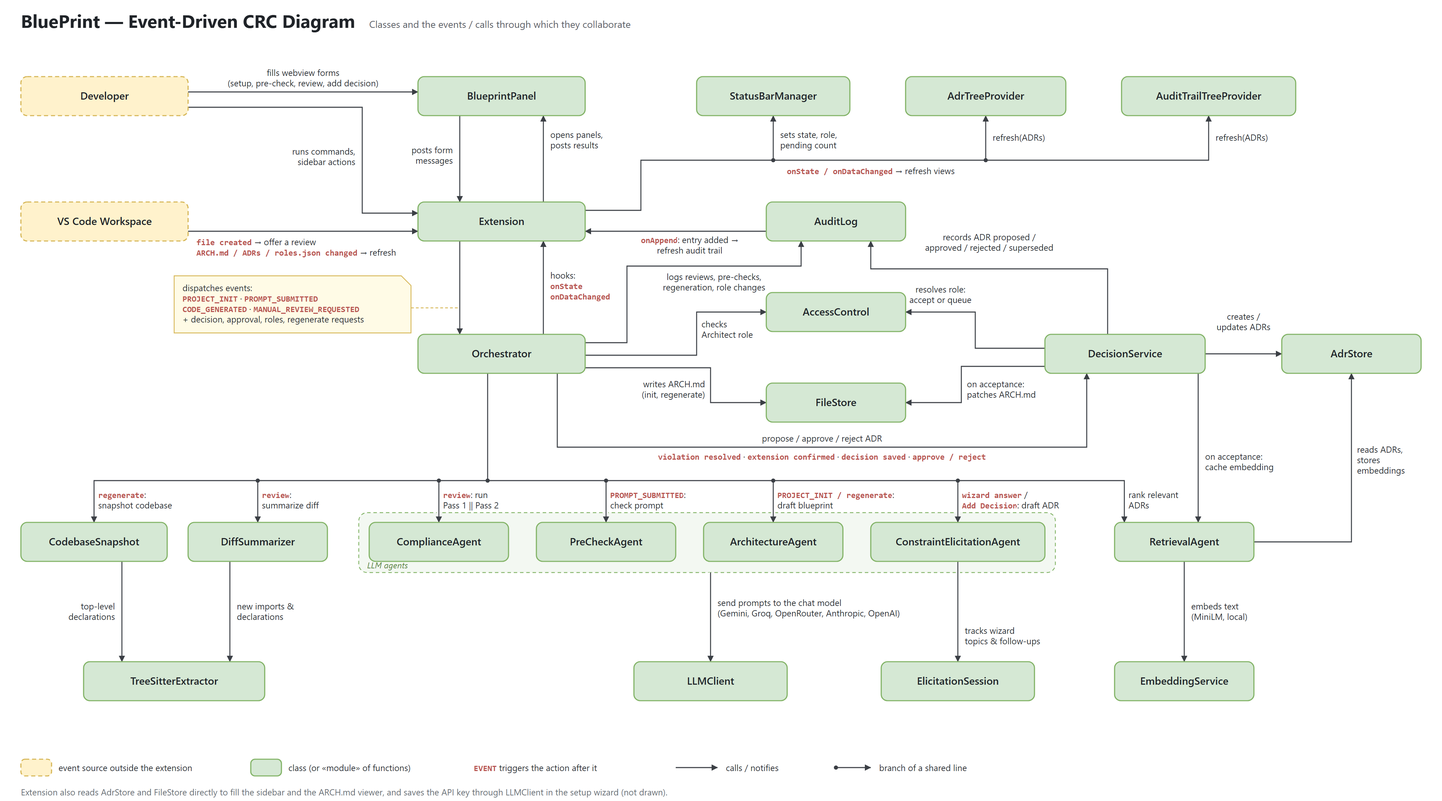
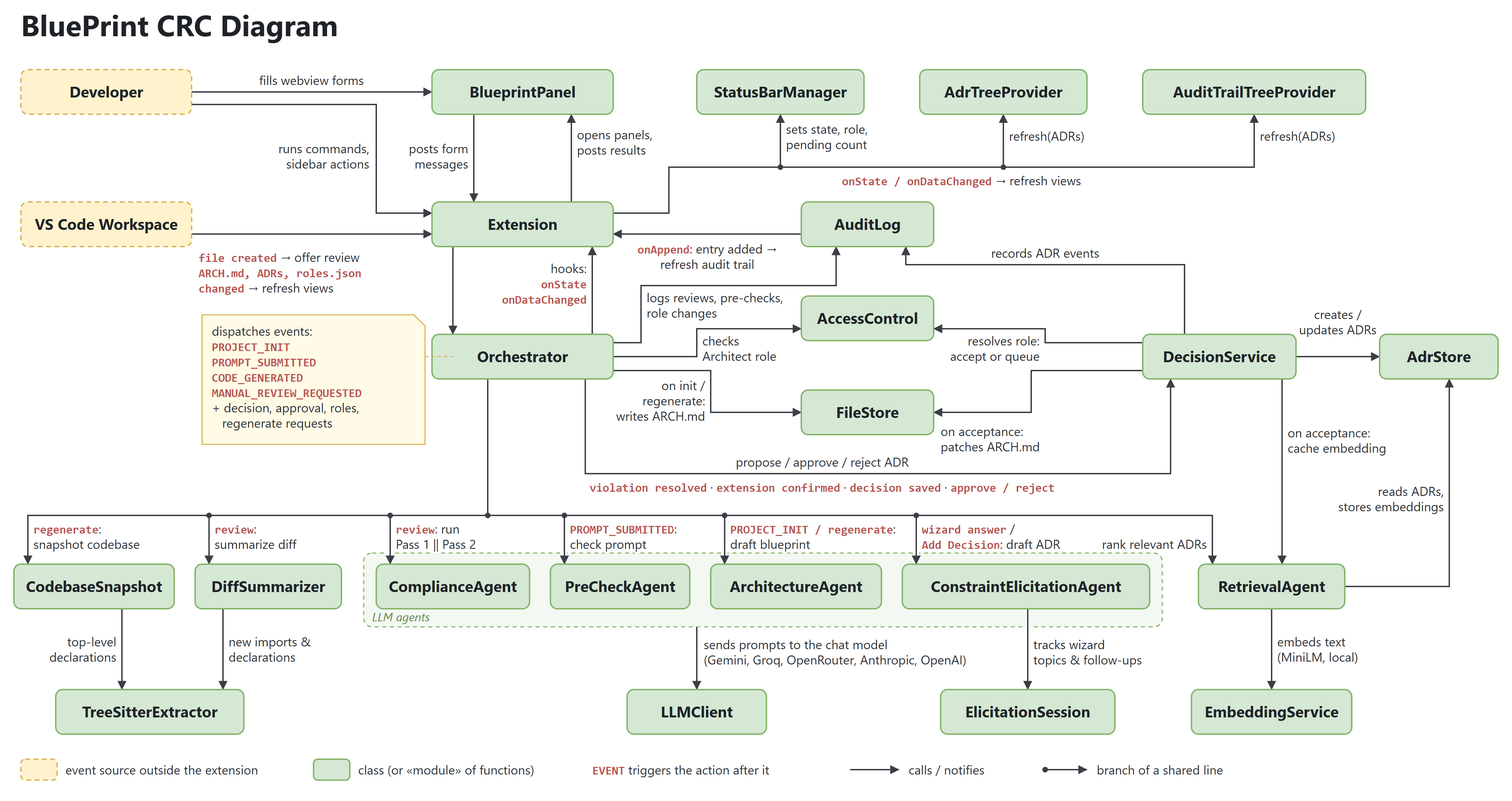
CRC diagram: larger fonts for slides, simpler title, drop footnote

diff --git a/docs/diagrams/event-crc.html b/docs/diagrams/event-crc.html
@@ -2,75 +2,103 @@
 <html lang="en">
 <head>
 <meta charset="UTF-8">
-<title>BluePrint — Event-Driven CRC Diagram</title>
+<title>BluePrint CRC Diagram</title>
 <style>
   * { margin: 0; padding: 0; box-sizing: border-box; }
-  body { background: #fff; width: 2070px; font-family: "Segoe UI", Arial, sans-serif; }
+  body { background: #fff; width: 2170px; font-family: "Segoe UI", Arial, sans-serif; }
   svg { display: block; }
-  .title { font-size: 26px; font-weight: 700; fill: #1f2328; }
-  .subtitle { font-size: 14px; fill: #5b6168; }
-  .box { fill: #d5e8d4; stroke: #82b366; stroke-width: 1.6; }
-  .box.evt { fill: #fff2cc; stroke: #d6b656; stroke-dasharray: 6 4; }
-  .name { font-size: 15px; font-weight: 600; fill: #1f2328; }
-  .edge { fill: none; stroke: #3b3f45; stroke-width: 1.4; }
-  .halo { fill: none; stroke: #fff; stroke-width: 6; }
+  .title { font-size: 42px; font-weight: 700; fill: #1f2328; }
+  .box { fill: #d5e8d4; stroke: #82b366; stroke-width: 2; }
+  .box.evt { fill: #fff2cc; stroke: #d6b656; stroke-dasharray: 7 5; }
+  .name { font-size: 22px; font-weight: 700; fill: #1f2328; }
+  .edge { fill: none; stroke: #3b3f45; stroke-width: 2; }
+  .halo { fill: none; stroke: #fff; stroke-width: 8; }
   .dot { fill: #3b3f45; }
-  .lbl { font-size: 12.5px; fill: #2d3136; paint-order: stroke; stroke: #fff; stroke-width: 4px; stroke-linejoin: round; }
-  .lbl.muted { fill: #6a7076; }
-  .ev { font-weight: 700; fill: #b85450; font-family: Consolas, "Cascadia Mono", monospace; font-size: 12px; }
-  .group { fill: #f3f8f2; stroke: #82b366; stroke-width: 1.2; stroke-dasharray: 5 4; }
-  .group-lbl { font-size: 12px; font-style: italic; fill: #5d8a47; }
-  .note { fill: #fffbe6; stroke: #d6b656; stroke-width: 1.2; }
+  .lbl { font-size: 18px; fill: #2d3136; paint-order: stroke; stroke: #fff; stroke-width: 5px; stroke-linejoin: round; }
+  .ev { font-weight: 700; fill: #b85450; font-family: Consolas, "Cascadia Mono", monospace; font-size: 17px; }
+  .group { fill: #f3f8f2; stroke: #82b366; stroke-width: 1.6; stroke-dasharray: 6 5; }
+  .group-lbl { font-size: 17px; font-style: italic; fill: #5d8a47; }
+  .note { fill: #fffbe6; stroke: #d6b656; stroke-width: 1.6; }
   .note-txt { stroke: none; }
-  .note-link { fill: none; stroke: #d6b656; stroke-width: 1.2; stroke-dasharray: 4 3; }
+  .note-link { fill: none; stroke: #d6b656; stroke-width: 1.6; stroke-dasharray: 5 4; }
 </style>
 </head>
 <body>
-<svg xmlns="http://www.w3.org/2000/svg" width="2070" height="1150" viewBox="0 0 2070 1150">
+<svg xmlns="http://www.w3.org/2000/svg" width="2170" height="1150" viewBox="0 0 2170 1150">
   <defs>
-    <marker id="arrow" viewBox="0 0 10 10" refX="9.5" refY="5" markerWidth="9" markerHeight="9" orient="auto-start-reverse" markerUnits="userSpaceOnUse">
+    <marker id="arrow" viewBox="0 0 10 10" refX="9.5" refY="5" markerWidth="13" markerHeight="13" orient="auto-start-reverse" markerUnits="userSpaceOnUse">
       <path d="M0,0 L10,5 L0,10 z" fill="#3b3f45"/>
     </marker>
   </defs>
-  <text class="title" x="30" y="40">BluePrint — Event-Driven CRC Diagram</text>
-  <text class="subtitle" x="530" y="40">Classes and the events / calls through which they collaborate</text>
-  <g transform="translate(0,70)">
-<rect class="group" x="515" y="666" width="1000" height="86" rx="12"/><text class="group-lbl" x="527" y="746">LLM agents</text><path class="halo" d="M270,62 L600,62"/><path class="halo" d="M270,84 L520,84 L520,236 L600,236"/><path class="halo" d="M270,262 L600,262"/><path class="halo" d="M660,96 L660,220"/><path class="halo" d="M780,220 L780,96"/><path class="halo" d="M840,232 L920,232 L920,160 L1110,160 L1110,96"/><path class="halo" d="M1110,160 L1415,160 L1415,96"/><path class="halo" d="M1415,160 L1735,160 L1735,96"/><path class="halo" d="M1100,262 L840,262"/><path class="halo" d="M660,276 L660,410"/><path class="halo" d="M780,410 L780,276"/><path class="halo" d="M840,422 L900,422 L900,312 L1150,312 L1150,276"/><path class="halo" d="M840,440 L1000,440 L1000,378 L1100,378"/><path class="halo" d="M840,458 L1020,458 L1020,508 L1100,508"/><path class="halo" d="M1590,410 L1590,316 L1250,316 L1250,276"/><path class="halo" d="M1500,430 L1400,430 L1400,378 L1300,378"/><path class="halo" d="M1500,456 L1380,456 L1380,508 L1300,508"/><path class="halo" d="M1730,438 L1840,438"/><path class="halo" d="M800,466 L800,572 L1560,572 L1560,466"/><path class="halo" d="M700,466 L700,620 L135,620 L135,680"/><path class="halo" d="M370,620 L370,680"/><path class="halo" d="M630,620 L630,680"/><path class="halo" d="M700,620 L870,620 L870,680"/><path class="halo" d="M1110,620 L1110,680"/><path class="halo" d="M1375,620 L1375,680"/><path class="halo" d="M870,620 L1614,620 L1614,680"/><path class="halo" d="M1720,466 L1720,680"/><path class="halo" d="M1800,708 L1940,708 L1940,466"/><path class="halo" d="M1700,736 L1700,880"/><path class="halo" d="M175,736 L175,880"/><path class="halo" d="M330,736 L330,880"/><path class="halo" d="M1020,752 L1020,880"/><path class="halo" d="M1375,736 L1375,880"/><path class="edge" d="M270,62 L600,62" marker-end="url(#arrow)"/><path class="edge" d="M270,84 L520,84 L520,236 L600,236" marker-end="url(#arrow)"/><path class="edge" d="M270,262 L600,262" marker-end="url(#arrow)"/><path class="edge" d="M660,96 L660,220" marker-end="url(#arrow)"/><path class="edge" d="M780,220 L780,96" marker-end="url(#arrow)"/><path class="edge" d="M840,232 L920,232 L920,160 L1110,160 L1110,96" marker-end="url(#arrow)"/><path class="edge" d="M1110,160 L1415,160 L1415,96" marker-end="url(#arrow)"/><circle cx="1110" cy="160" r="3" class="dot"/><path class="edge" d="M1415,160 L1735,160 L1735,96" marker-end="url(#arrow)"/><circle cx="1415" cy="160" r="3" class="dot"/><path class="edge" d="M1100,262 L840,262" marker-end="url(#arrow)"/><path class="edge" d="M660,276 L660,410" marker-end="url(#arrow)"/><path class="edge" d="M780,410 L780,276" marker-end="url(#arrow)"/><path class="edge" d="M840,422 L900,422 L900,312 L1150,312 L1150,276" marker-end="url(#arrow)"/><path class="edge" d="M840,440 L1000,440 L1000,378 L1100,378" marker-end="url(#arrow)"/><path class="edge" d="M840,458 L1020,458 L1020,508 L1100,508" marker-end="url(#arrow)"/><path class="edge" d="M1590,410 L1590,316 L1250,316 L1250,276" marker-end="url(#arrow)"/><path class="edge" d="M1500,430 L1400,430 L1400,378 L1300,378" marker-end="url(#arrow)"/><path class="edge" d="M1500,456 L1380,456 L1380,508 L1300,508" marker-end="url(#arrow)"/><path class="edge" d="M1730,438 L1840,438" marker-end="url(#arrow)"/><path class="edge" d="M800,466 L800,572 L1560,572 L1560,466" marker-end="url(#arrow)"/><path class="edge" d="M700,466 L700,620 L135,620 L135,680" marker-end="url(#arrow)"/><path class="edge" d="M370,620 L370,680" marker-end="url(#arrow)"/><circle cx="370" cy="620" r="3" class="dot"/><path class="edge" d="M630,620 L630,680" marker-end="url(#arrow)"/><circle cx="630" cy="620" r="3" class="dot"/><path class="edge" d="M700,620 L870,620 L870,680" marker-end="url(#arrow)"/><circle cx="700" cy="620" r="3" class="dot"/><path class="edge" d="M1110,620 L1110,680" marker-end="url(#arrow)"/><circle cx="1110" cy="620" r="3" class="dot"/><path class="edge" d="M1375,620 L1375,680" marker-end="url(#arrow)"/><circle cx="1375" cy="620" r="3" class="dot"/><path class="edge" d="M870,620 L1614,620 L1614,680" marker-end="url(#arrow)"/><circle cx="870" cy="620" r="3" class="dot"/><path class="edge" d="M1720,466 L1720,680" marker-end="url(#arrow)"/><path class="edge" d="M1800,708 L1940,708 L1940,466" marker-end="url(#arrow)"/><path class="edge" d="M1700,736 L1700,880" marker-end="url(#arrow)"/><path class="edge" d="M175,736 L175,880" marker-end="url(#arrow)"/><path class="edge" d="M330,736 L330,880" marker-end="url(#arrow)"/><path class="edge" d="M1020,752 L1020,880" marker-end="url(#arrow)"/><path class="edge" d="M1375,736 L1375,880" marker-end="url(#arrow)"/><rect class="box evt" x="30" y="40" width="240" height="56" rx="9"/><text class="name" x="150" y="73" text-anchor="middle">Developer</text><rect class="box " x="600" y="40" width="240" height="56" rx="9"/><text class="name" x="720" y="73" text-anchor="middle">BlueprintPanel</text><rect class="box " x="1000" y="40" width="220" height="56" rx="9"/><text class="name" x="1110" y="73" text-anchor="middle">StatusBarManager</text><rect class="box " x="1300" y="40" width="230" height="56" rx="9"/><text class="name" x="1415" y="73" text-anchor="middle">AdrTreeProvider</text><rect class="box " x="1610" y="40" width="250" height="56" rx="9"/><text class="name" x="1735" y="73" text-anchor="middle">AuditTrailTreeProvider</text><rect class="box evt" x="30" y="220" width="240" height="56" rx="9"/><text class="name" x="150" y="253" text-anchor="middle">VS Code Workspace</text><rect class="box " x="600" y="220" width="240" height="56" rx="9"/><text class="name" x="720" y="253" text-anchor="middle">Extension</text><rect class="box " x="1100" y="220" width="200" height="56" rx="9"/><text class="name" x="1200" y="253" text-anchor="middle">AuditLog</text><rect class="box " x="1100" y="350" width="200" height="56" rx="9"/><text class="name" x="1200" y="383" text-anchor="middle">AccessControl</text><rect class="box " x="600" y="410" width="240" height="56" rx="9"/><text class="name" x="720" y="443" text-anchor="middle">Orchestrator</text><rect class="box " x="1500" y="410" width="230" height="56" rx="9"/><text class="name" x="1615" y="443" text-anchor="middle">DecisionService</text><rect class="box " x="1840" y="410" width="200" height="56" rx="9"/><text class="name" x="1940" y="443" text-anchor="middle">AdrStore</text><rect class="box " x="1100" y="480" width="200" height="56" rx="9"/><text class="name" x="1200" y="513" text-anchor="middle">FileStore</text><rect class="box " x="30" y="680" width="210" height="56" rx="9"/><text class="name" x="135" y="713" text-anchor="middle">CodebaseSnapshot</text><rect class="box " x="270" y="680" width="200" height="56" rx="9"/><text class="name" x="370" y="713" text-anchor="middle">DiffSummarizer</text><rect class="box " x="530" y="680" width="200" height="56" rx="9"/><text class="name" x="630" y="713" text-anchor="middle">ComplianceAgent</text><rect class="box " x="770" y="680" width="200" height="56" rx="9"/><text class="name" x="870" y="713" text-anchor="middle">PreCheckAgent</text><rect class="box " x="1010" y="680" width="200" height="56" rx="9"/><text class="name" x="1110" y="713" text-anchor="middle">ArchitectureAgent</text><rect class="box " x="1250" y="680" width="250" height="56" rx="9"/><text class="name" x="1375" y="713" text-anchor="middle">ConstraintElicitationAgent</text><rect class="box " x="1600" y="680" width="200" height="56" rx="9"/><text class="name" x="1700" y="713" text-anchor="middle">RetrievalAgent</text><rect class="box " x="120" y="880" width="260" height="56" rx="9"/><text class="name" x="250" y="913" text-anchor="middle">TreeSitterExtractor</text><rect class="box " x="910" y="880" width="220" height="56" rx="9"/><text class="name" x="1020" y="913" text-anchor="middle">LLMClient</text><rect class="box " x="1265" y="880" width="220" height="56" rx="9"/><text class="name" x="1375" y="913" text-anchor="middle">ElicitationSession</text><rect class="box " x="1600" y="880" width="200" height="56" rx="9"/><text class="name" x="1700" y="913" text-anchor="middle">EmbeddingService</text><path class="note" d="M250,326 h326 l14,14 v68 h-340 z"/><text class="lbl note-txt" x="262" y="348" text-anchor="start">dispatches events:</text>
-<text class="lbl note-txt" x="262" y="363" text-anchor="start"><tspan class="ev">PROJECT_INIT</tspan> · <tspan class="ev">PROMPT_SUBMITTED</tspan></text>
-<text class="lbl note-txt" x="262" y="378" text-anchor="start"><tspan class="ev">CODE_GENERATED</tspan> · <tspan class="ev">MANUAL_REVIEW_REQUESTED</tspan></text>
-<text class="lbl note-txt" x="262" y="393" text-anchor="start">+ decision, approval, roles, regenerate requests</text><path class="note-link" d="M590,372 H660"/><text class="lbl" x="435" y="39" text-anchor="middle">fills webview forms</text>
-<text class="lbl" x="435" y="54" text-anchor="middle">(setup, pre-check, review, add decision)</text><text class="lbl" x="510" y="152" text-anchor="end">runs commands,</text>
-<text class="lbl" x="510" y="167" text-anchor="end">sidebar actions</text><text class="lbl" x="282" y="282" text-anchor="start"><tspan class="ev">file created</tspan> → offer a review</text>
-<text class="lbl" x="282" y="297" text-anchor="start"><tspan class="ev">ARCH.md / ADRs / roles.json changed</tspan> → refresh</text><text class="lbl" x="650" y="150" text-anchor="end">posts form</text>
-<text class="lbl" x="650" y="165" text-anchor="end">messages</text><text class="lbl" x="790" y="128" text-anchor="start">opens panels,</text>
-<text class="lbl" x="790" y="143" text-anchor="start">posts results</text><text class="lbl" x="1120" y="128" text-anchor="start">sets state, role,</text>
-<text class="lbl" x="1120" y="143" text-anchor="start">pending count</text><text class="lbl" x="1425" y="132" text-anchor="start">refresh(ADRs)</text><text class="lbl" x="1745" y="132" text-anchor="start">refresh(ADRs)</text><text class="lbl" x="1250" y="180" text-anchor="middle"><tspan class="ev">onState / onDataChanged</tspan> → refresh views</text><text class="lbl" x="990" y="279" text-anchor="middle"><tspan class="ev">onAppend</tspan>: entry added →</text>
-<text class="lbl" x="990" y="294" text-anchor="middle">refresh audit trail</text><text class="lbl" x="790" y="330" text-anchor="start">hooks:</text>
-<text class="lbl" x="790" y="345" text-anchor="start"><tspan class="ev">onState</tspan></text>
-<text class="lbl" x="790" y="360" text-anchor="start"><tspan class="ev">onDataChanged</tspan></text><text class="lbl" x="1025" y="332" text-anchor="middle">logs reviews, pre-checks,</text>
-<text class="lbl" x="1025" y="347" text-anchor="middle">regeneration, role changes</text><text class="lbl" x="1007" y="400" text-anchor="start">checks</text>
-<text class="lbl" x="1007" y="415" text-anchor="start">Architect role</text><text class="lbl" x="1012" y="486" text-anchor="end">writes ARCH.md</text>
-<text class="lbl" x="1012" y="501" text-anchor="end">(init, regenerate)</text><text class="lbl" x="1420" y="275" text-anchor="middle">records ADR proposed /</text>
-<text class="lbl" x="1420" y="290" text-anchor="middle">approved / rejected / superseded</text><text class="lbl" x="1350" y="350" text-anchor="middle">resolves role:</text>
-<text class="lbl" x="1350" y="365" text-anchor="middle">accept or queue</text><text class="lbl" x="1388" y="486" text-anchor="start">on acceptance:</text>
-<text class="lbl" x="1388" y="501" text-anchor="start">patches ARCH.md</text><text class="lbl" x="1785" y="389" text-anchor="middle">creates /</text>
-<text class="lbl" x="1785" y="404" text-anchor="middle">updates ADRs</text><text class="lbl" x="1180" y="564" text-anchor="middle">propose / approve / reject ADR</text><text class="lbl" x="1180" y="590" text-anchor="middle"><tspan class="ev">violation resolved</tspan> · <tspan class="ev">extension confirmed</tspan> · <tspan class="ev">decision saved</tspan> · <tspan class="ev">approve / reject</tspan></text><text class="lbl" x="141" y="645" text-anchor="start"><tspan class="ev">regenerate</tspan>:</text>
-<text class="lbl" x="141" y="660" text-anchor="start">snapshot codebase</text><text class="lbl" x="376" y="645" text-anchor="start"><tspan class="ev">review</tspan>:</text>
-<text class="lbl" x="376" y="660" text-anchor="start">summarize diff</text><text class="lbl" x="636" y="645" text-anchor="start"><tspan class="ev">review</tspan>: run</text>
-<text class="lbl" x="636" y="660" text-anchor="start">Pass 1 ‖ Pass 2</text><text class="lbl" x="876" y="645" text-anchor="start"><tspan class="ev">PROMPT_SUBMITTED</tspan>:</text>
-<text class="lbl" x="876" y="660" text-anchor="start">check prompt</text><text class="lbl" x="1116" y="645" text-anchor="start"><tspan class="ev">PROJECT_INIT / regenerate</tspan>:</text>
-<text class="lbl" x="1116" y="660" text-anchor="start">draft blueprint</text><text class="lbl" x="1381" y="645" text-anchor="start"><tspan class="ev">wizard answer</tspan> /</text>
-<text class="lbl" x="1381" y="660" text-anchor="start"><tspan class="ev">Add Decision</tspan>: draft ADR</text><text class="lbl" x="1620" y="645" text-anchor="start">rank relevant</text>
-<text class="lbl" x="1620" y="660" text-anchor="start">ADRs</text><text class="lbl" x="1730" y="590" text-anchor="start">on acceptance:</text>
-<text class="lbl" x="1730" y="605" text-anchor="start">cache embedding</text><text class="lbl" x="1948" y="580" text-anchor="start">reads ADRs,</text>
-<text class="lbl" x="1948" y="595" text-anchor="start">stores</text>
-<text class="lbl" x="1948" y="610" text-anchor="start">embeddings</text><text class="lbl" x="1710" y="805" text-anchor="start">embeds text</text>
-<text class="lbl" x="1710" y="820" text-anchor="start">(MiniLM, local)</text><text class="lbl" x="165" y="805" text-anchor="end">top-level</text>
-<text class="lbl" x="165" y="820" text-anchor="end">declarations</text><text class="lbl" x="340" y="805" text-anchor="start">new imports &amp;</text>
-<text class="lbl" x="340" y="820" text-anchor="start">declarations</text><text class="lbl" x="1030" y="800" text-anchor="start">send prompts to the chat model</text>
-<text class="lbl" x="1030" y="815" text-anchor="start">(Gemini, Groq, OpenRouter, Anthropic, OpenAI)</text><text class="lbl" x="1385" y="840" text-anchor="start">tracks wizard</text>
-<text class="lbl" x="1385" y="855" text-anchor="start">topics &amp; follow-ups</text><rect class="box evt" x="30" y="1020" width="44" height="24" rx="6"/><text class="lbl" x="84" y="1037">event source outside the extension</text><rect class="box" x="360" y="1020" width="44" height="24" rx="6"/><text class="lbl" x="414" y="1037">class (or «module» of functions)</text><text class="lbl" x="680" y="1037"><tspan class="ev">EVENT</tspan> triggers the action after it</text><path class="edge" d="M970,1032 H1030" marker-end="url(#arrow)"/><text class="lbl" x="1042" y="1037">calls / notifies</text><circle cx="1200" cy="1032" r="3" class="dot"/><path class="edge" d="M1200,1032 H1250" marker-end="url(#arrow)"/><text class="lbl" x="1262" y="1037">branch of a shared line</text><text class="lbl muted" x="30" y="1072">Extension also reads AdrStore and FileStore directly to fill the sidebar and the ARCH.md viewer, and saves the API key through LLMClient in the setup wizard (not drawn).</text>
+  <text class="title" x="30" y="52">BluePrint CRC Diagram</text>
+  <g transform="translate(0,80)">
+<rect class="group" x="522" y="714" width="1146" height="106" rx="12"/><text class="group-lbl" x="534" y="812">LLM agents</text><path class="halo" d="M275,52 L620,52"/><path class="halo" d="M275,70 L540,70 L540,226 L620,226"/><path class="halo" d="M275,256 L620,256"/><path class="halo" d="M680,84 L680,210"/><path class="halo" d="M820,210 L820,84"/><path class="halo" d="M880,226 L960,226 L960,160 L1120,160 L1120,84"/><path class="halo" d="M1120,160 L1440,160 L1440,84"/><path class="halo" d="M1440,160 L1800,160 L1800,84"/><path class="halo" d="M1150,256 L880,256"/><path class="halo" d="M650,274 L650,400"/><path class="halo" d="M850,400 L850,274"/><path class="halo" d="M880,412 L920,412 L920,330 L1200,330 L1200,274"/><path class="halo" d="M880,432 L1000,432 L1000,392 L1150,392"/><path class="halo" d="M880,452 L1020,452 L1020,512 L1150,512"/><path class="halo" d="M1700,400 L1700,300 L1300,300 L1300,274"/><path class="halo" d="M1640,412 L1500,412 L1500,392 L1340,392"/><path class="halo" d="M1640,452 L1480,452 L1480,512 L1340,512"/><path class="halo" d="M1860,432 L1980,432"/><path class="halo" d="M840,464 L840,600 L1680,600 L1680,464"/><path class="halo" d="M700,464 L700,660 L40,660 L40,730"/><path class="halo" d="M300,660 L300,730"/><path class="halo" d="M560,660 L560,730"/><path class="halo" d="M700,660 L810,660 L810,730"/><path class="halo" d="M1040,660 L1040,730"/><path class="halo" d="M1315,660 L1315,730"/><path class="halo" d="M810,660 L1740,660 L1740,730"/><path class="halo" d="M1840,464 L1840,730"/><path class="halo" d="M1930,762 L2080,762 L2080,464"/><path class="halo" d="M1825,794 L1825,910"/><path class="halo" d="M175,794 L175,910"/><path class="halo" d="M320,794 L320,910"/><path class="halo" d="M1000,820 L1000,910"/><path class="halo" d="M1475,794 L1475,910"/><path class="edge" d="M275,52 L620,52" marker-end="url(#arrow)"/><path class="edge" d="M275,70 L540,70 L540,226 L620,226" marker-end="url(#arrow)"/><path class="edge" d="M275,256 L620,256" marker-end="url(#arrow)"/><path class="edge" d="M680,84 L680,210" marker-end="url(#arrow)"/><path class="edge" d="M820,210 L820,84" marker-end="url(#arrow)"/><path class="edge" d="M880,226 L960,226 L960,160 L1120,160 L1120,84" marker-end="url(#arrow)"/><path class="edge" d="M1120,160 L1440,160 L1440,84" marker-end="url(#arrow)"/><circle cx="1120" cy="160" r="4" class="dot"/><path class="edge" d="M1440,160 L1800,160 L1800,84" marker-end="url(#arrow)"/><circle cx="1440" cy="160" r="4" class="dot"/><path class="edge" d="M1150,256 L880,256" marker-end="url(#arrow)"/><path class="edge" d="M650,274 L650,400" marker-end="url(#arrow)"/><path class="edge" d="M850,400 L850,274" marker-end="url(#arrow)"/><path class="edge" d="M880,412 L920,412 L920,330 L1200,330 L1200,274" marker-end="url(#arrow)"/><path class="edge" d="M880,432 L1000,432 L1000,392 L1150,392" marker-end="url(#arrow)"/><path class="edge" d="M880,452 L1020,452 L1020,512 L1150,512" marker-end="url(#arrow)"/><path class="edge" d="M1700,400 L1700,300 L1300,300 L1300,274" marker-end="url(#arrow)"/><path class="edge" d="M1640,412 L1500,412 L1500,392 L1340,392" marker-end="url(#arrow)"/><path class="edge" d="M1640,452 L1480,452 L1480,512 L1340,512" marker-end="url(#arrow)"/><path class="edge" d="M1860,432 L1980,432" marker-end="url(#arrow)"/><path class="edge" d="M840,464 L840,600 L1680,600 L1680,464" marker-end="url(#arrow)"/><path class="edge" d="M700,464 L700,660 L40,660 L40,730" marker-end="url(#arrow)"/><path class="edge" d="M300,660 L300,730" marker-end="url(#arrow)"/><circle cx="300" cy="660" r="4" class="dot"/><path class="edge" d="M560,660 L560,730" marker-end="url(#arrow)"/><circle cx="560" cy="660" r="4" class="dot"/><path class="edge" d="M700,660 L810,660 L810,730" marker-end="url(#arrow)"/><circle cx="700" cy="660" r="4" class="dot"/><path class="edge" d="M1040,660 L1040,730" marker-end="url(#arrow)"/><circle cx="1040" cy="660" r="4" class="dot"/><path class="edge" d="M1315,660 L1315,730" marker-end="url(#arrow)"/><circle cx="1315" cy="660" r="4" class="dot"/><path class="edge" d="M810,660 L1740,660 L1740,730" marker-end="url(#arrow)"/><circle cx="810" cy="660" r="4" class="dot"/><path class="edge" d="M1840,464 L1840,730" marker-end="url(#arrow)"/><path class="edge" d="M1930,762 L2080,762 L2080,464" marker-end="url(#arrow)"/><path class="edge" d="M1825,794 L1825,910" marker-end="url(#arrow)"/><path class="edge" d="M175,794 L175,910" marker-end="url(#arrow)"/><path class="edge" d="M320,794 L320,910" marker-end="url(#arrow)"/><path class="edge" d="M1000,820 L1000,910" marker-end="url(#arrow)"/><path class="edge" d="M1475,794 L1475,910" marker-end="url(#arrow)"/><rect class="box evt" x="30" y="20" width="245" height="64" rx="10"/><text class="name" x="152.5" y="60" text-anchor="middle">Developer</text><rect class="box " x="620" y="20" width="260" height="64" rx="10"/><text class="name" x="750" y="60" text-anchor="middle">BlueprintPanel</text><rect class="box " x="1000" y="20" width="240" height="64" rx="10"/><text class="name" x="1120" y="60" text-anchor="middle">StatusBarManager</text><rect class="box " x="1320" y="20" width="240" height="64" rx="10"/><text class="name" x="1440" y="60" text-anchor="middle">AdrTreeProvider</text><rect class="box " x="1640" y="20" width="320" height="64" rx="10"/><text class="name" x="1800" y="60" text-anchor="middle">AuditTrailTreeProvider</text><rect class="box evt" x="30" y="210" width="245" height="64" rx="10"/><text class="name" x="152.5" y="250" text-anchor="middle">VS Code Workspace</text><rect class="box " x="620" y="210" width="260" height="64" rx="10"/><text class="name" x="750" y="250" text-anchor="middle">Extension</text><rect class="box " x="1150" y="210" width="190" height="64" rx="10"/><text class="name" x="1245" y="250" text-anchor="middle">AuditLog</text><rect class="box " x="1150" y="345" width="190" height="64" rx="10"/><text class="name" x="1245" y="385" text-anchor="middle">AccessControl</text><rect class="box " x="620" y="400" width="260" height="64" rx="10"/><text class="name" x="750" y="440" text-anchor="middle">Orchestrator</text><rect class="box " x="1640" y="400" width="220" height="64" rx="10"/><text class="name" x="1750" y="440" text-anchor="middle">DecisionService</text><rect class="box " x="1980" y="400" width="170" height="64" rx="10"/><text class="name" x="2065" y="440" text-anchor="middle">AdrStore</text><rect class="box " x="1150" y="480" width="190" height="64" rx="10"/><text class="name" x="1245" y="520" text-anchor="middle">FileStore</text><rect class="box " x="20" y="730" width="230" height="64" rx="10"/><text class="name" x="135" y="770" text-anchor="middle">CodebaseSnapshot</text><rect class="box " x="280" y="730" width="210" height="64" rx="10"/><text class="name" x="385" y="770" text-anchor="middle">DiffSummarizer</text><rect class="box " x="540" y="730" width="220" height="64" rx="10"/><text class="name" x="650" y="770" text-anchor="middle">ComplianceAgent</text><rect class="box " x="790" y="730" width="200" height="64" rx="10"/><text class="name" x="890" y="770" text-anchor="middle">PreCheckAgent</text><rect class="box " x="1020" y="730" width="245" height="64" rx="10"/><text class="name" x="1142.5" y="770" text-anchor="middle">ArchitectureAgent</text><rect class="box " x="1295" y="730" width="355" height="64" rx="10"/><text class="name" x="1472.5" y="770" text-anchor="middle">ConstraintElicitationAgent</text><rect class="box " x="1720" y="730" width="210" height="64" rx="10"/><text class="name" x="1825" y="770" text-anchor="middle">RetrievalAgent</text><rect class="box " x="80" y="910" width="270" height="64" rx="10"/><text class="name" x="215" y="950" text-anchor="middle">TreeSitterExtractor</text><rect class="box " x="900" y="910" width="200" height="64" rx="10"/><text class="name" x="1000" y="950" text-anchor="middle">LLMClient</text><rect class="box " x="1350" y="910" width="250" height="64" rx="10"/><text class="name" x="1475" y="950" text-anchor="middle">ElicitationSession</text><rect class="box " x="1710" y="910" width="230" height="64" rx="10"/><text class="name" x="1825" y="950" text-anchor="middle">EmbeddingService</text><path class="note" d="M290,372 h304 l16,16 v170 h-320 z"/><text class="lbl note-txt" x="304" y="402" text-anchor="start" xml:space="preserve">dispatches events:</text>
+<text class="lbl note-txt" x="304" y="424" text-anchor="start" xml:space="preserve"><tspan class="ev">PROJECT_INIT</tspan></text>
+<text class="lbl note-txt" x="304" y="446" text-anchor="start" xml:space="preserve"><tspan class="ev">PROMPT_SUBMITTED</tspan></text>
+<text class="lbl note-txt" x="304" y="468" text-anchor="start" xml:space="preserve"><tspan class="ev">CODE_GENERATED</tspan></text>
+<text class="lbl note-txt" x="304" y="490" text-anchor="start" xml:space="preserve"><tspan class="ev">MANUAL_REVIEW_REQUESTED</tspan></text>
+<text class="lbl note-txt" x="304" y="512" text-anchor="start" xml:space="preserve">+ decision, approval, roles,</text>
+<text class="lbl note-txt" x="304" y="534" text-anchor="start" xml:space="preserve">   regenerate requests</text><path class="note-link" d="M610,432 H650"/><text class="lbl" x="447" y="42" text-anchor="middle" xml:space="preserve">fills webview forms</text><text class="lbl" x="530" y="140" text-anchor="end" xml:space="preserve">runs commands,</text>
+<text class="lbl" x="530" y="162" text-anchor="end" xml:space="preserve">sidebar actions</text><text class="lbl" x="285" y="296" text-anchor="start" xml:space="preserve"><tspan class="ev">file created</tspan> → offer review</text>
+<text class="lbl" x="285" y="318" text-anchor="start" xml:space="preserve"><tspan class="ev">ARCH.md, ADRs, roles.json</tspan></text>
+<text class="lbl" x="285" y="340" text-anchor="start" xml:space="preserve"><tspan class="ev">changed</tspan> → refresh views</text><text class="lbl" x="672" y="140" text-anchor="end" xml:space="preserve">posts form</text>
+<text class="lbl" x="672" y="162" text-anchor="end" xml:space="preserve">messages</text><text class="lbl" x="828" y="120" text-anchor="start" xml:space="preserve">opens panels,</text>
+<text class="lbl" x="828" y="142" text-anchor="start" xml:space="preserve">posts results</text><text class="lbl" x="1128" y="112" text-anchor="start" xml:space="preserve">sets state, role,</text>
+<text class="lbl" x="1128" y="134" text-anchor="start" xml:space="preserve">pending count</text><text class="lbl" x="1448" y="122" text-anchor="start" xml:space="preserve">refresh(ADRs)</text><text class="lbl" x="1808" y="122" text-anchor="start" xml:space="preserve">refresh(ADRs)</text><text class="lbl" x="1380" y="186" text-anchor="middle" xml:space="preserve"><tspan class="ev">onState / onDataChanged</tspan> → refresh views</text><text class="lbl" x="1015" y="284" text-anchor="middle" xml:space="preserve"><tspan class="ev">onAppend</tspan>: entry added →</text>
+<text class="lbl" x="1015" y="306" text-anchor="middle" xml:space="preserve">refresh audit trail</text><text class="lbl" x="842" y="312" text-anchor="end" xml:space="preserve">hooks:</text>
+<text class="lbl" x="842" y="334" text-anchor="end" xml:space="preserve"><tspan class="ev">onState</tspan></text>
+<text class="lbl" x="842" y="356" text-anchor="end" xml:space="preserve"><tspan class="ev">onDataChanged</tspan></text><text class="lbl" x="928" y="354" text-anchor="start" xml:space="preserve">logs reviews, pre-checks,</text>
+<text class="lbl" x="928" y="376" text-anchor="start" xml:space="preserve">role changes</text><text class="lbl" x="1008" y="416" text-anchor="start" xml:space="preserve">checks</text>
+<text class="lbl" x="1008" y="438" text-anchor="start" xml:space="preserve">Architect role</text><text class="lbl" x="1012" y="480" text-anchor="end" xml:space="preserve">on init /</text>
+<text class="lbl" x="1012" y="502" text-anchor="end" xml:space="preserve">regenerate:</text>
+<text class="lbl" x="1012" y="524" text-anchor="end" xml:space="preserve">writes ARCH.md</text><text class="lbl" x="1500" y="290" text-anchor="middle" xml:space="preserve">records ADR events</text><text class="lbl" x="1492" y="416" text-anchor="end" xml:space="preserve">resolves role:</text>
+<text class="lbl" x="1492" y="438" text-anchor="end" xml:space="preserve">accept or queue</text><text class="lbl" x="1350" y="546" text-anchor="start" xml:space="preserve">on acceptance:</text>
+<text class="lbl" x="1350" y="568" text-anchor="start" xml:space="preserve">patches ARCH.md</text><text class="lbl" x="1920" y="378" text-anchor="middle" xml:space="preserve">creates /</text>
+<text class="lbl" x="1920" y="400" text-anchor="middle" xml:space="preserve">updates ADRs</text><text class="lbl" x="1180" y="590" text-anchor="middle" xml:space="preserve">propose / approve / reject ADR</text><text class="lbl" x="1180" y="626" text-anchor="middle" xml:space="preserve"><tspan class="ev">violation resolved</tspan> · <tspan class="ev">extension confirmed</tspan> · <tspan class="ev">decision saved</tspan> · <tspan class="ev">approve / reject</tspan></text><text class="lbl" x="48" y="686" text-anchor="start" xml:space="preserve"><tspan class="ev">regenerate</tspan>:</text>
+<text class="lbl" x="48" y="708" text-anchor="start" xml:space="preserve">snapshot codebase</text><text class="lbl" x="308" y="686" text-anchor="start" xml:space="preserve"><tspan class="ev">review</tspan>:</text>
+<text class="lbl" x="308" y="708" text-anchor="start" xml:space="preserve">summarize diff</text><text class="lbl" x="568" y="686" text-anchor="start" xml:space="preserve"><tspan class="ev">review</tspan>: run</text>
+<text class="lbl" x="568" y="708" text-anchor="start" xml:space="preserve">Pass 1 ‖ Pass 2</text><text class="lbl" x="818" y="686" text-anchor="start" xml:space="preserve"><tspan class="ev">PROMPT_SUBMITTED</tspan>:</text>
+<text class="lbl" x="818" y="708" text-anchor="start" xml:space="preserve">check prompt</text><text class="lbl" x="1048" y="686" text-anchor="start" xml:space="preserve"><tspan class="ev">PROJECT_INIT / regenerate</tspan>:</text>
+<text class="lbl" x="1048" y="708" text-anchor="start" xml:space="preserve">draft blueprint</text><text class="lbl" x="1323" y="686" text-anchor="start" xml:space="preserve"><tspan class="ev">wizard answer</tspan> /</text>
+<text class="lbl" x="1323" y="708" text-anchor="start" xml:space="preserve"><tspan class="ev">Add Decision</tspan>: draft ADR</text><text class="lbl" x="1732" y="708" text-anchor="end" xml:space="preserve">rank relevant ADRs</text><text class="lbl" x="1848" y="548" text-anchor="start" xml:space="preserve">on acceptance:</text>
+<text class="lbl" x="1848" y="570" text-anchor="start" xml:space="preserve">cache embedding</text><text class="lbl" x="2072" y="632" text-anchor="end" xml:space="preserve">reads ADRs,</text>
+<text class="lbl" x="2072" y="654" text-anchor="end" xml:space="preserve">stores embeddings</text><text class="lbl" x="1833" y="848" text-anchor="start" xml:space="preserve">embeds text</text>
+<text class="lbl" x="1833" y="870" text-anchor="start" xml:space="preserve">(MiniLM, local)</text><text class="lbl" x="167" y="848" text-anchor="end" xml:space="preserve">top-level</text>
+<text class="lbl" x="167" y="870" text-anchor="end" xml:space="preserve">declarations</text><text class="lbl" x="328" y="848" text-anchor="start" xml:space="preserve">new imports &amp;</text>
+<text class="lbl" x="328" y="870" text-anchor="start" xml:space="preserve">declarations</text><text class="lbl" x="1010" y="852" text-anchor="start" xml:space="preserve">sends prompts to the chat model</text>
+<text class="lbl" x="1010" y="874" text-anchor="start" xml:space="preserve">(Gemini, Groq, OpenRouter, Anthropic, OpenAI)</text><text class="lbl" x="1483" y="852" text-anchor="start" xml:space="preserve">tracks wizard</text>
+<text class="lbl" x="1483" y="874" text-anchor="start" xml:space="preserve">topics &amp; follow-ups</text><rect class="box evt" x="30" y="1010" width="52" height="30" rx="6"/><text class="lbl" x="94" y="1032">event source outside the extension</text><rect class="box" x="450" y="1010" width="52" height="30" rx="6"/><text class="lbl" x="514" y="1032">class (or «module» of functions)</text><text class="lbl" x="850" y="1032"><tspan class="ev">EVENT</tspan> triggers the action after it</text><path class="edge" d="M1220,1025 H1290" marker-end="url(#arrow)"/><text class="lbl" x="1304" y="1032">calls / notifies</text><circle cx="1500" cy="1025" r="4" class="dot"/><path class="edge" d="M1500,1025 H1560" marker-end="url(#arrow)"/><text class="lbl" x="1574" y="1032">branch of a shared line</text>
   </g>
 </svg>
+<script>
+if (location.hash === "#check") {
+  const pad = 1;
+  const rectOf = (el) => { const b = el.getBBox(); return { x: b.x + pad, y: b.y + pad, w: b.width - 2 * pad, h: b.height - 2 * pad }; };
+  const hit = (a, b) => a.x < b.x + b.w && b.x < a.x + a.w && a.y < b.y + b.h && b.y < a.y + a.h;
+  const texts = [...document.querySelectorAll("g text")].map((el) => ({ el, r: rectOf(el), s: el.textContent }));
+  const boxes = [...document.querySelectorAll("g rect.box")].map((el) => ({ r: rectOf(el) }));
+  const segs = [];
+  document.querySelectorAll("g path.edge, g path.note-link").forEach((p) => {
+    const pts = [...p.getAttribute("d").matchAll(/(-?[\d.]+),(-?[\d.]+)/g)].map((m) => [+m[1], +m[2]]);
+    for (let i = 1; i < pts.length; i++) {
+      const [x1, y1] = pts[i - 1], [x2, y2] = pts[i];
+      segs.push({ x: Math.min(x1, x2) - 1, y: Math.min(y1, y2) - 1, w: Math.abs(x2 - x1) + 2, h: Math.abs(y2 - y1) + 2 });
+    }
+  });
+  const out = [];
+  texts.forEach((t, i) => {
+    if (t.el.classList.contains("name")) return;
+    texts.slice(i + 1).forEach((u) => { if (hit(t.r, u.r)) out.push("text/text: " + t.s + " | " + u.s); });
+    boxes.forEach((b) => { if (hit(t.r, b.r)) out.push("text/box: " + t.s); });
+    segs.forEach((s) => { if (hit(t.r, s)) out.push("text/line: " + t.s); });
+  });
+  document.querySelectorAll("g text.name").forEach((el) => {
+    const r = rectOf(el), box = boxes.find((b) => hit(r, b.r));
+    if (box && (r.x < box.r.x + 8 || r.x + r.w > box.r.x + box.r.w - 8)) out.push("name too wide: " + el.textContent);
+  });
+  const svgEl = document.querySelector("svg"), all = svgEl.getBBox();
+  out.push("content extent: " + Math.round(all.x + all.width) + " x " + Math.round(all.y + all.height));
+  const pre = document.createElement("pre"); pre.id = "report"; pre.textContent = out.join("\n"); document.body.append(pre);
+}</script>
 </body>
 </html>
